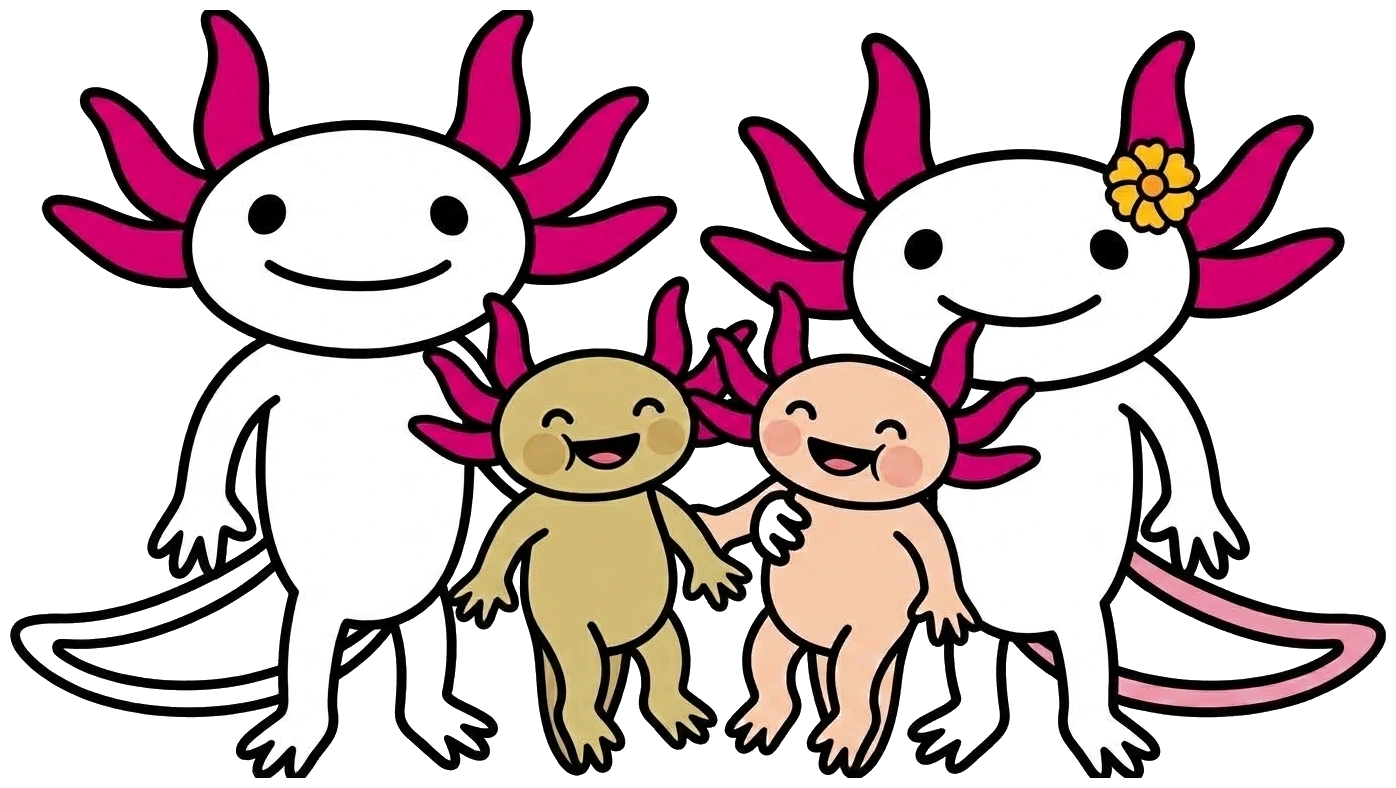
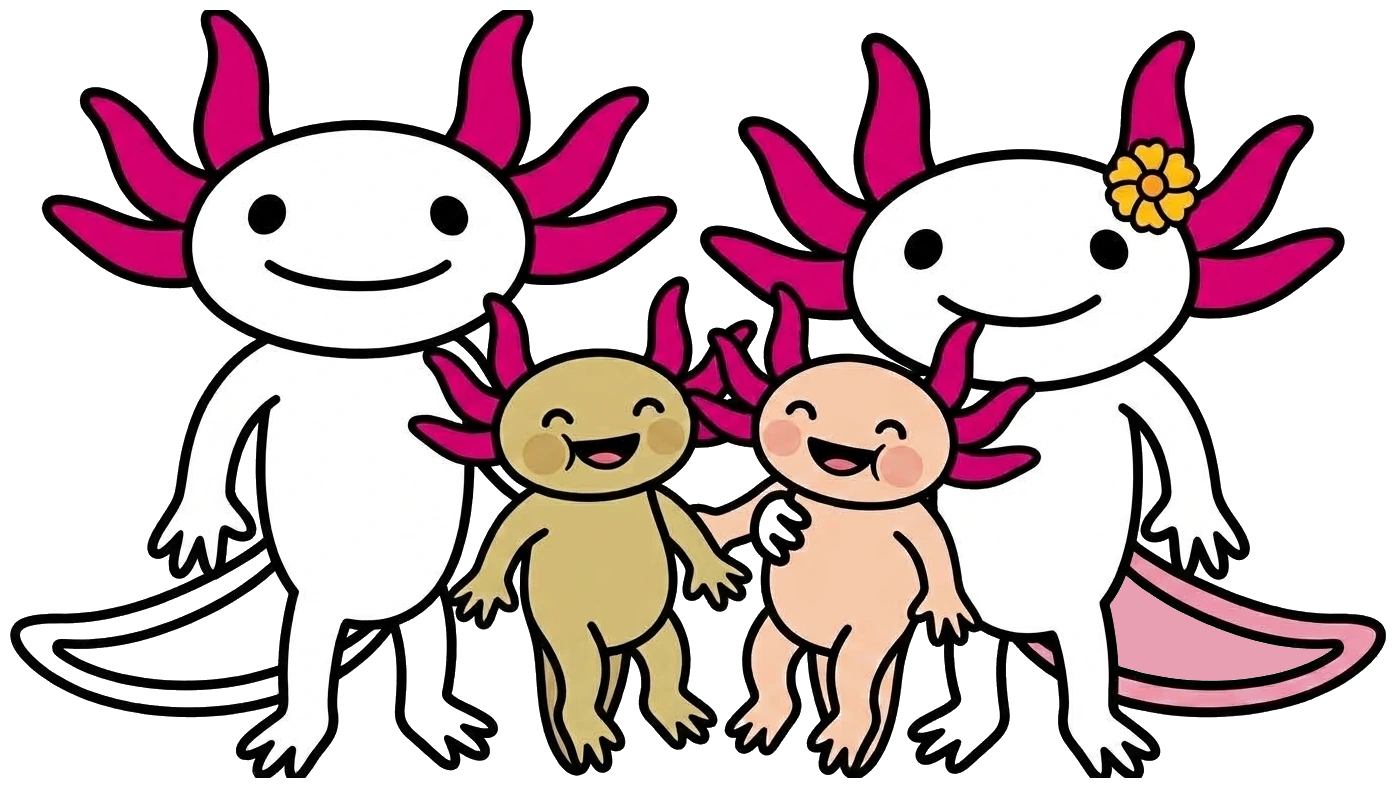
fix: make the complete family tails opaque

Changed region(s): [[0.7701, 0.731, 0.9549, 0.8832]]

diff --git a/tests/e2e/appearance.spec.ts b/tests/e2e/appearance.spec.ts
@@ -370,6 +370,62 @@ for (const width of [393, 1280]) {
         }
       }
     }
+    // Any enclosed transparent component inside either tail is missing paint.
+    // Flood the full alpha plane so this catches whole holes, not sample points.
+    const tailHoles = await family.evaluate((image: HTMLImageElement) => {
+      const canvas = document.createElement('canvas')
+      canvas.width = image.naturalWidth
+      canvas.height = image.naturalHeight
+      const context = canvas.getContext('2d')!
+      context.drawImage(image, 0, 0)
+      const { width, height } = canvas
+      const pixels = context.getImageData(0, 0, width, height).data
+      const visited = new Uint8Array(width * height)
+      const holes: { x: number; y: number; pixels: number }[] = []
+      for (let start = 0; start < visited.length; start++) {
+        if (visited[start] || pixels[start * 4 + 3] === 255) continue
+        const component = [start]
+        visited[start] = 1
+        let minX = width
+        let maxX = 0
+        let minY = height
+        let maxY = 0
+        for (let i = 0; i < component.length; i++) {
+          const index = component[i]
+          const x = index % width
+          const y = Math.floor(index / width)
+          minX = Math.min(minX, x)
+          maxX = Math.max(maxX, x)
+          minY = Math.min(minY, y)
+          maxY = Math.max(maxY, y)
+          for (const [nx, ny] of [
+            [x - 1, y],
+            [x + 1, y],
+            [x, y - 1],
+            [x, y + 1],
+          ]) {
+            if (nx < 0 || nx >= width || ny < 0 || ny >= height) continue
+            const next = ny * width + nx
+            if (!visited[next] && pixels[next * 4 + 3] < 255) {
+              visited[next] = 1
+              component.push(next)
+            }
+          }
+        }
+        const insideTail =
+          minY > height * 0.72 &&
+          maxY < height * 0.92 &&
+          ((minX > 0 && maxX < width * 0.28) ||
+            (minX > width * 0.79 && maxX < width - 1))
+        if (insideTail)
+          holes.push({ x: minX, y: minY, pixels: component.length })
+      }
+      return holes
+    })
+    expect(
+      tailHoles,
+      'tails must contain no enclosed transparent regions',
+    ).toEqual([])
     for (const colorScheme of ['light', 'dark', 'light'] as const) {
       await page.emulateMedia({ colorScheme })
       await expectAppearance(page, colorScheme)
